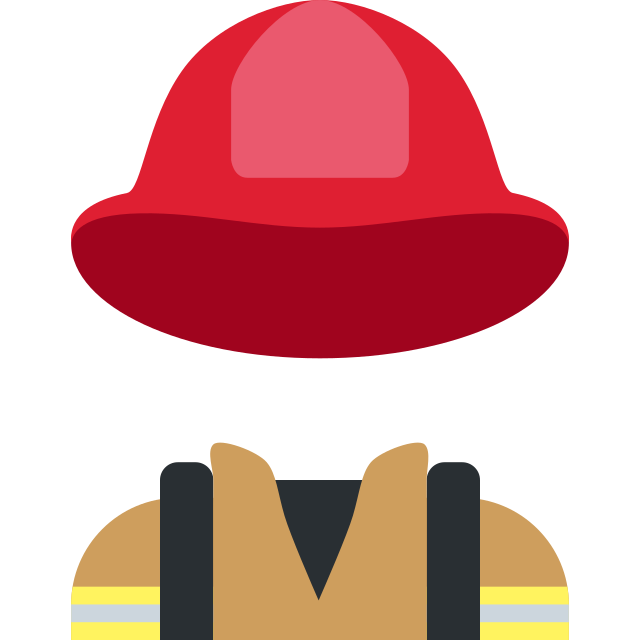
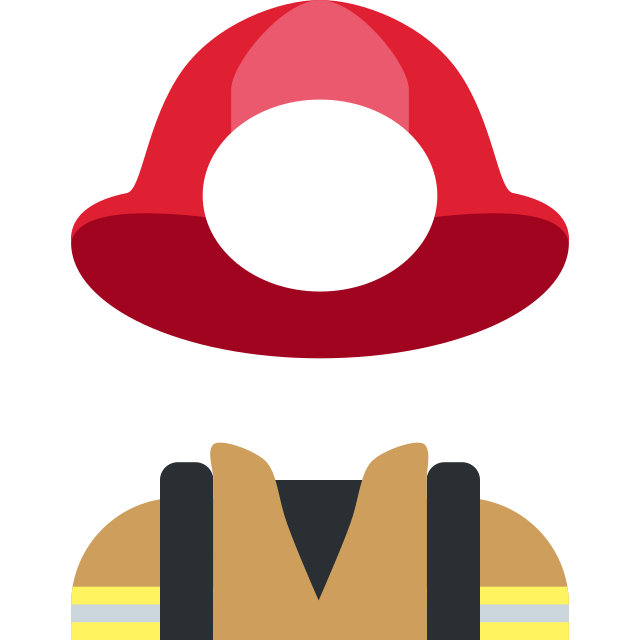
Refine farmer/firefighter/judge costumes and add Twemoji attribution

Changed region(s): [[0.3125, 0.1562, 0.6875, 0.4688]]

diff --git a/index.html b/index.html
@@ -1,4 +1,83 @@
 <!DOCTYPE html>
+<!--
+    Twemoji attribution for the recording overlay artwork.
+
+    The overlay images under public/overlays/ are derived from Twemoji:
+    Twemoji by Twitter, Inc. and other contributors, licensed under the
+    Creative Commons Attribution 4.0 International license (CC-BY 4.0).
+    License: https://github.com/jdecked/twemoji/blob/main/LICENSE-GRAPHICS
+    Source, pinned: Twemoji 15.0.3 via jsDelivr
+    (https://cdn.jsdelivr.net/gh/jdecked/twemoji@15.0.3/assets/svg/).
+
+    Emoji used:
+      1F453 eyeglasses
+      1F3AD performing arts (purple mask only)
+      1F47D alien
+      1F921 clown face
+      1F63A grinning cat
+      1F435 monkey face
+      1F436 dog face
+      1F43B bear face
+      1F600 grinning face
+      1F601 beaming face with smiling eyes
+      1F602 face with tears of joy
+      1F603 grinning face with big eyes
+      1F605 grinning face with sweat
+      1F606 grinning squinting face
+      1F60A smiling face with smiling eyes
+      1F60B face savoring food
+      1F973 partying face
+      1F620 angry face
+      1F922 nauseated face
+      1F92E face vomiting
+      1F431 cat face
+      1F437 pig face
+      1F42F tiger face
+      1F98A fox face
+      1F42E cow face
+      1F43C panda face
+      1F430 rabbit face
+      1F42D mouse face
+      1F428 koala
+      1F438 frog
+      1F989 owl
+      1F439 hamster
+      1F385 Santa Claus
+      1F936 Mrs. Claus
+      1F9D9 mage
+      1F934 prince
+      1F478 princess
+      1F482 guard
+      1F477 construction worker
+      1F473 person with turban
+      1F920 cowboy hat face
+      1F9E2 billed cap
+      26D1 rescue worker's helmet
+      1FA96 military helmet
+      1F452 woman's hat
+      1F393 graduation cap
+      1F3A9 top hat
+      1F451 crown
+      1F46E police officer
+      1F468-200D-1F373 man cook
+      1F468-200D-2695-FE0F man health worker
+      1F468-200D-1F692 man firefighter
+      1F468-200D-2708-FE0F man pilot
+      1F468-200D-1F680 man astronaut
+      1F468-200D-1F33E man farmer
+      1F468-200D-1F3ED man factory worker
+      1F468-200D-2696-FE0F man judge
+      1F469-200D-2696-FE0F woman judge
+
+    Modifications: many overlays were altered by removing parts of the
+    artwork — eye areas, faces, hair, or the centre of a helmet — so the
+    learner's own eyes or face show through the overlay. Hats were extracted
+    from full emoji. These modifications are not endorsed by Twitter,
+    Twemoji, or the emoji's original designers.
+
+    This attribution applies only to the Twemoji-derived overlay images under
+    public/overlays/. It does not apply to any other content in this app.
+-->
 <html lang="en">
 
 <head>

diff --git a/src/modules/looks/recording-looks-logic.js b/src/modules/looks/recording-looks-logic.js
@@ -190,6 +190,7 @@ export const OVERLAY_LIBRARY = {
     farmer: { slot: 'face', file: '/overlays/face/farmer.png', anchor: 'face', label: 'Farmer', labelKey: 'look_overlay_farmer' },
     'factory-worker': { slot: 'face', file: '/overlays/face/factory-worker.png', anchor: 'face', label: 'Factory worker', labelKey: 'look_overlay_factory_worker' },
     judge: { slot: 'face', file: '/overlays/face/judge.png', anchor: 'face', label: 'Judge', labelKey: 'look_overlay_judge' },
+    'judge-female': { slot: 'face', file: '/overlays/face/judge-female.png', anchor: 'face', label: 'Female judge', labelKey: 'look_overlay_judge_female' },
     'construction-worker': { slot: 'face', file: '/overlays/face/construction-worker.png', anchor: 'face', label: 'Construction worker', labelKey: 'look_overlay_construction_worker' },
     // Above-the-face props.
     witchhat: { slot: 'upper', file: '/overlays/props/witchhat.png', anchor: 'upper', label: 'Witch hat', labelKey: 'look_overlay_witchhat' },

diff --git a/src/modules/video/recorder-page.test.js b/src/modules/video/recorder-page.test.js
@@ -1056,6 +1056,7 @@ describe('recorder auto-render — zero server changes', () => {
             'scripts/generate-twemoji-overlays.mjs',
             'src/modules/looks/twemoji-overlays.test.js',
             'public/overlays/TWEMOJI-ATTRIBUTION.md',
+            'index.html',
             // Retired by the 092 folder layout (deleted paths still appear in the
             // diff, so they stay listed here).
             'public/overlays/hat.png',
@@ -1108,6 +1109,7 @@ describe('recorder auto-render — zero server changes', () => {
             'public/overlays/face/farmer.png',
             'public/overlays/face/factory-worker.png',
             'public/overlays/face/judge.png',
+            'public/overlays/face/judge-female.png',
             'public/overlays/face/construction-worker.png',
             'public/overlays/props/witchhat.png',
             'public/overlays/props/crown.png',

diff --git a/src/modules/looks/twemoji-overlays.test.js b/src/modules/looks/twemoji-overlays.test.js
@@ -45,7 +45,7 @@ describe('twemoji overlays are registered as face covers', () => {
     });
 });
 
-const COSTUME_SLUGS = ['police-officer', 'chef', 'doctor', 'firefighter', 'pilot', 'astronaut', 'farmer', 'factory-worker', 'judge', 'construction-worker'];
+const COSTUME_SLUGS = ['police-officer', 'chef', 'doctor', 'firefighter', 'pilot', 'astronaut', 'farmer', 'factory-worker', 'judge', 'judge-female', 'construction-worker'];
 
 describe('costume covers punch out the whole face, not only the eyes', () => {
     it('registers every costume as a face cover with its own file', () => {
